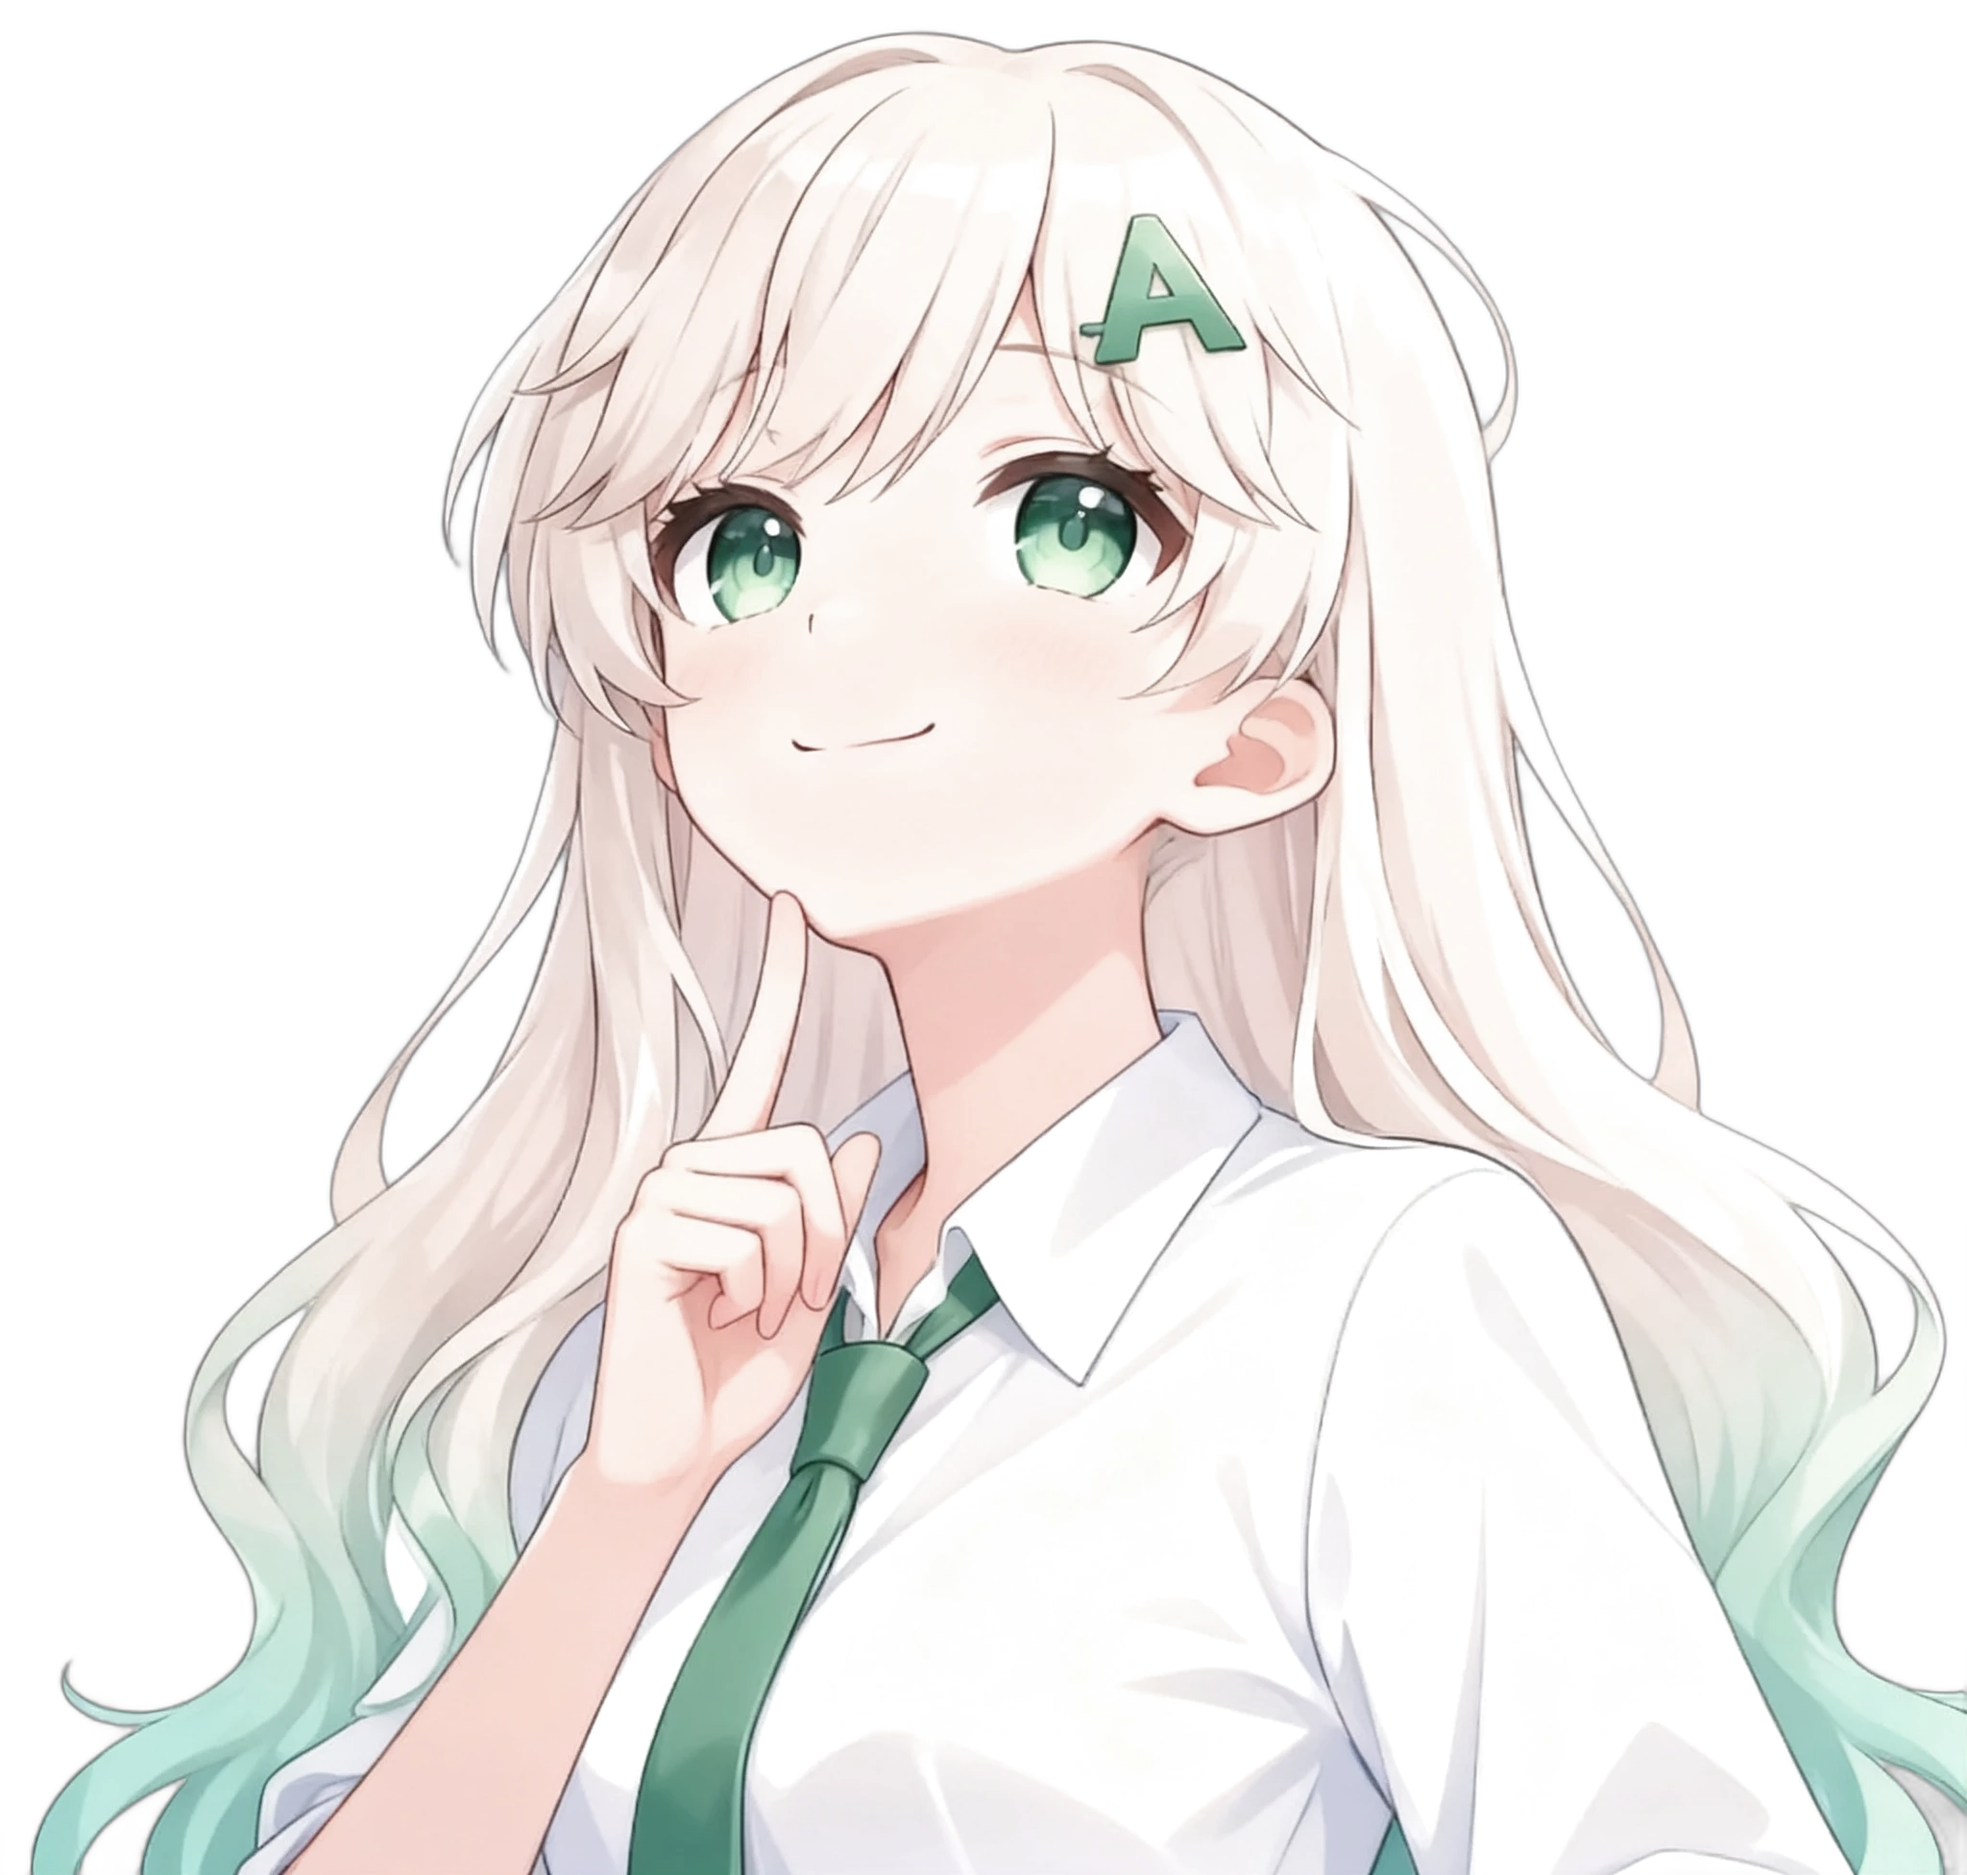
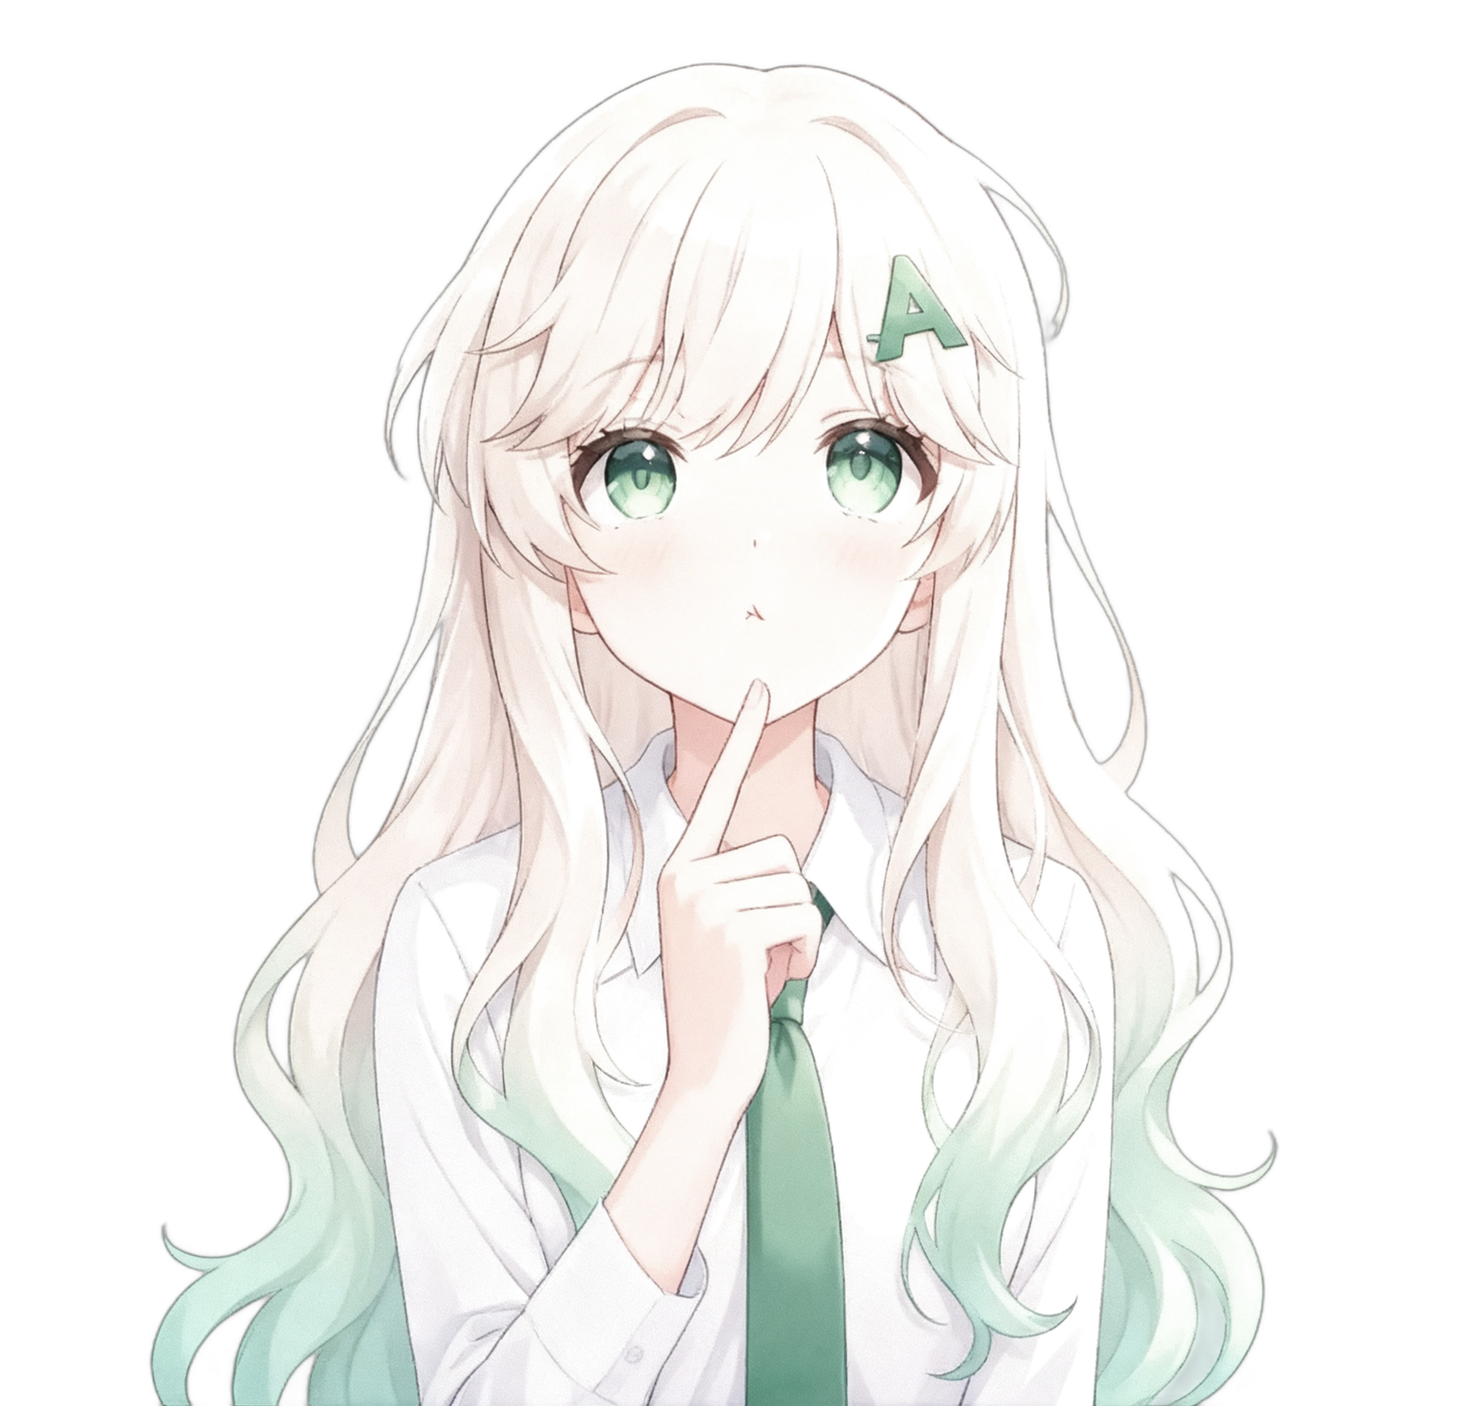
feat(mascot): add high/low/shocked/blush expressions + wire shocked & blush moods

diff --git a/frontend/src/components/mascot/Asahi.tsx b/frontend/src/components/mascot/Asahi.tsx
@@ -16,7 +16,7 @@ import { cn } from "@/lib/cn";
  * the base, so the app never shows a broken image while art is still being made.
  */
 
-export type AsahiMood = "high" | "mid" | "low" | "wave" | "think";
+export type AsahiMood = "high" | "mid" | "low" | "wave" | "think" | "shocked" | "blush";
 
 const BASE_SRC = "/mascot/asahi-base.png";
 
@@ -26,6 +26,8 @@ const MOOD_SRC: Record<AsahiMood, string> = {
   low: "/mascot/asahi-low.png",
   wave: "/mascot/asahi-wave.png",
   think: "/mascot/asahi-think.png",
+  shocked: "/mascot/asahi-shocked.png",
+  blush: "/mascot/asahi-blush.png",
 };
 
 const MOOD_LABEL: Record<AsahiMood, string> = {
@@ -34,6 +36,8 @@ const MOOD_LABEL: Record<AsahiMood, string> = {
   low: "Asahi menyemangati dengan lembut",
   wave: "Asahi menyapa",
   think: "Asahi sedang berpikir",
+  shocked: "Asahi terkejut",
+  blush: "Asahi tersipu malu",
 };
 
 const LEVEL_TO_MOOD: Record<UnderstandingLevel, AsahiMood> = {
